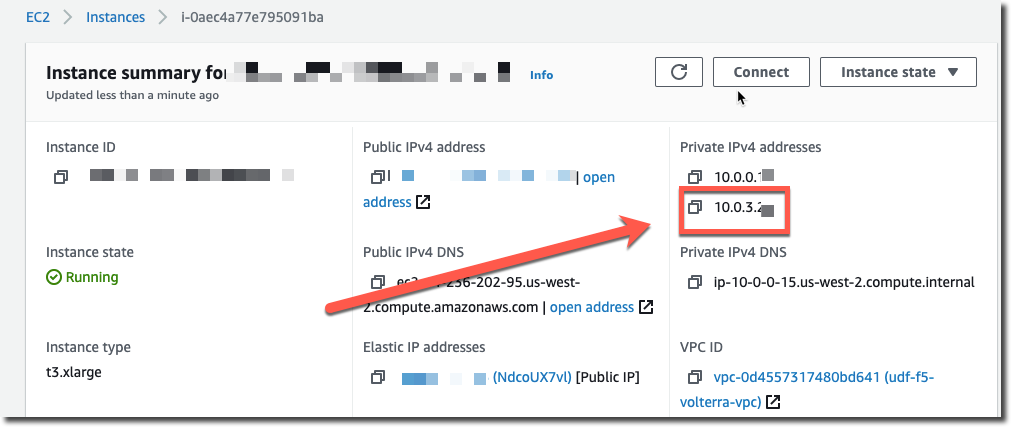
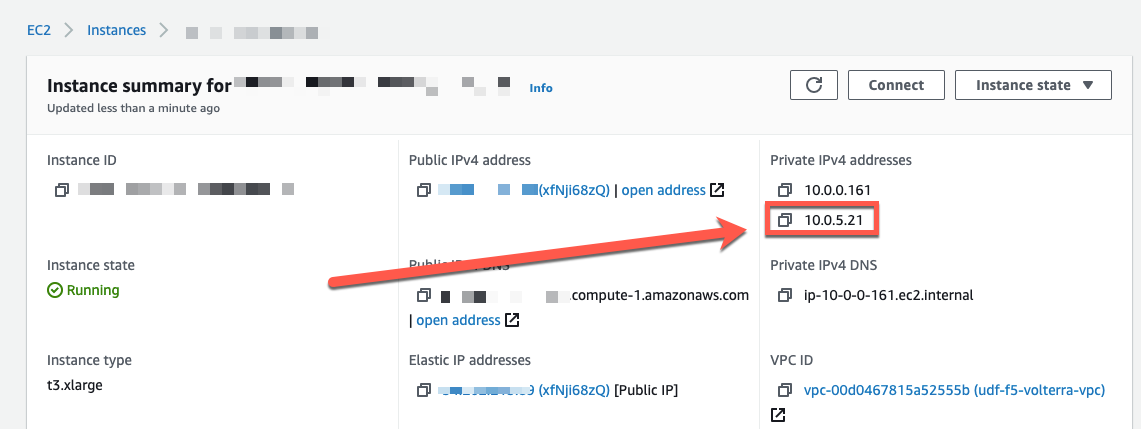
update screenshots

diff --git a/networking/docs/lab3/workload.rst b/networking/docs/lab3/workload.rst
@@ -60,6 +60,10 @@ You will use the IP address next to configure your workload instance.
 
 .. image:: aws-console-private-ip.png
 
+You can alternately get this same information from VoltConsole by clicking on the "Nodes" tab for your
+site and selecting the node.
+
+.. image:: volt-console-nodes.png
 
 Deploy Workload
 ~~~~~~~~~~~~~~~
